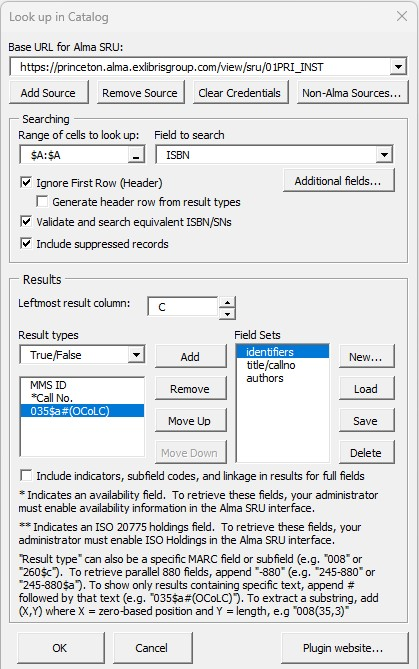
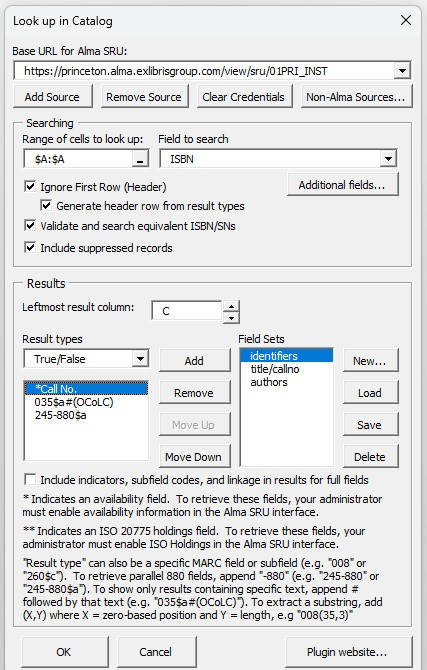
fix typos, extend example

Changed region(s): [[0.0, 0.0, 1.0, 1.0]]

diff --git a/README.md b/README.md
@@ -34,7 +34,7 @@ To search a non-Alma catalog (such as WorldCat), click the "Non-Alma Sources" bu
 
 If your SRU integration requires a username and password, you will be prompted for these.  (These are likely different than the personal credentials you use to log into Alma.  Check with your catalog administrator.)   If searching WorldCat, you will be prompted to enter your authorization number and password.  You can save these credentials by checking the "Remember these credentials" box in the login prompt, or delete the saved credentials by clicking the "Clear Credentials" button while the URL is selected. 
 
-## Setting up the query
+## Setting Up the Query
 Open an Excel spreadsheet and highlight the cells containing the data you want to search for in Alma.  You can highlight an entire column, or just specific cells, but all the values should be contained in the same column.  After highlighting the desired cells, click the “Look Up in Local Catalog” button.  The following dialog box will appear:
 
 <img src='./img/dialog.jpg'>
@@ -47,7 +47,7 @@ Below is an explanation of the fields in this dialog:
 
 **Ignore First Row (Header)**: If checked, the first cell in the selected range will not be searched.  You should check this if the first row is a header.
 
-**Generate header row from result types**: This option is avialable if the "Ignore First Row" option is checked.  For each result column, the header row will be populated with the corresponding label from the "Result Types" list.
+**Generate header row from result types**: This option is available if the "Ignore First Row" option is checked.  For each result column, the header row will be populated with the corresponding label from the "Result Types" list.
 
 **Validate and search equivalent ISBN/SNs**: If checked, and if “Field to search” is set to “ISBN” or “ISSN”, then each ISBN/SN will be validated.  If invalid, the value "INVALID" will be output in the result column(s). For ISBNs, the search will be done on both the 10-digit and 13-digit forms, regardless of which form is found in the spreadsheet.
 
@@ -72,7 +72,7 @@ Besides the search keys in the drop-down list, you can enter any search index su
 - Multiple result types can be selected for output, in which case they will be placed in consecutive columns in the spreadsheet, starting with the one indicated in the “Leftmost result column” field.  Use the “Add”, “Remove”, “Move Up” and “Move Down” button to edit or reorder the result types.
 - For some non-Alma sources, there are a limited number of result types available, and it is not possible enter a custom value in this field.  However, some sources also include a "Holdings" result type in the drop-down, which will retrieve a list of holding institutions for the item in question.
 
-Note that this tool is designed for running queries on lists of specific titles and identifiers, rather than more general queries that might return a large number of results.  Thus, to improve performance, a maximum of 25 records will be retreived for each row.
+Note that this tool is designed for running queries on lists of specific titles and identifiers, rather than more general queries that might return a large number of results.  Thus, to improve performance, a maximum of 25 records will be retrieved for each row.
 
 **Field Sets**:  Sets of field tags can be saved so that they do not need to be entered manually each time the tool is run.  After compiling a list of fields under “Result Types”, click the “New…” button to create and name a new set.  The “Load” button will populate the “Result Types” list with the fields in an existing set.  “Save” will update the fields in the selected set from the “Result types” list.  “Delete” will delete the selected set.
 
@@ -92,11 +92,11 @@ This example illustrates a typical use case.  The user starts with a title list 
 
 <img src='./img/example1.jpg'>
 
-They would like to search the catalog to confirm which items are owned by their instituion, and retrieve additional data for those items.  Since ISBNs are a more reliable search key than titles, the user highlights column A contianing the ISBNs, then clicks the "Look Up in Local Catalog" button in the "Library Tools" tab.  This brings up the following dialog:
+They would like to search the catalog to confirm which items are owned by their instituion, and retrieve additional data for those items.  Since ISBNs are a more reliable search key than titles, the user highlights column A contianing the ISBNs, then clicks the "Look Up in Catalog" button in the "Library Tools" tab.  This brings up the following dialog:
 
 <img src='./img/example2.jpg'>
 
-The "Range of cells to lookup up" field already shows the cells that the user hightlighted (in this case, the entire column A).  So, it is not necessary to change this field.  The user sets "Field to Search" to "ISBN".  The leftmost result column is also already set to C, which is the first blank column to the right of the data.  The user also sets 3 result types: 
+The "Range of cells to lookup up" field already shows the cells that the user highlighted (in this case, the entire column A).  So, it is not necessary to change this field.  The user sets "Field to Search" to "ISBN".  The leftmost result column is also already set to C, which is the first blank column to the right of the data.  The user also sets 3 result types: 
 - Call number - The asterisk indicates that this will be retrieved from the availability fields.  (If the user wanted to retrieve the call number from a bibliographic field, they could enter a specific MARC field name, such as 050 or 084).
 - 035$a#(OCoLC) - This retrieves all instances of 035$a containing the text "(OCoLC)", i.e. OCLC numbers.
 - 245-880$a - This retrieves all instances of 880$a that are linked to the 245 field, i.e. the original-script version of the Chinese titles.
@@ -105,4 +105,15 @@ The user then clicks OK.  The screenshot below shows the resulting spreadsheet:
 
 <img src='./img/example3.jpg'>
 
-For each row of the spreadsheet, the three data elements mentioned above are output in columns C, D, and E respectively. Since the ISBN in row 9 was not found in the catalog, the value FALSE is output in each of these columns.
+For each row of the spreadsheet, the three data elements mentioned above are output in columns C, D, and E respectively. Since the user selected the option to generate column headers, these appear in the first row.  Since the ISBN in row 9 was not found in the catalog, the value FALSE is output in each of these columns.
+
+The user is now interested in looking up the OCLC number that were retrieved in order to check the WorldCat holdings.  They highlught column D, and click the "Look Up in Catalog" button again.  
+
+<img src='./img/example4.jpg'>
+
+This time, they use the "Non-Alma Sources" button to set the source to "source:worldcat".  (If they have done this in the past, then it would already appear in the drop-down list of sources).  They set "Field to Search" to "OCLC No." and "Result Types" to "WorldCat Holdings".  (It is not necessary to click the "Add" button since there is only one result type.)   Column F is automatically selected as the result column.
+
+When the user clicks the "OK" button, they will be prompted to enter their WorldCat authorization number and password (unless they have entered it before and selected the option to save the login).  Then, the tool looks up each OCLC number in WorldCat, and populates column F with a list of holdings codes, separated by the broken bar character.
+
+<img src='./img/example5.jpg'>
+
